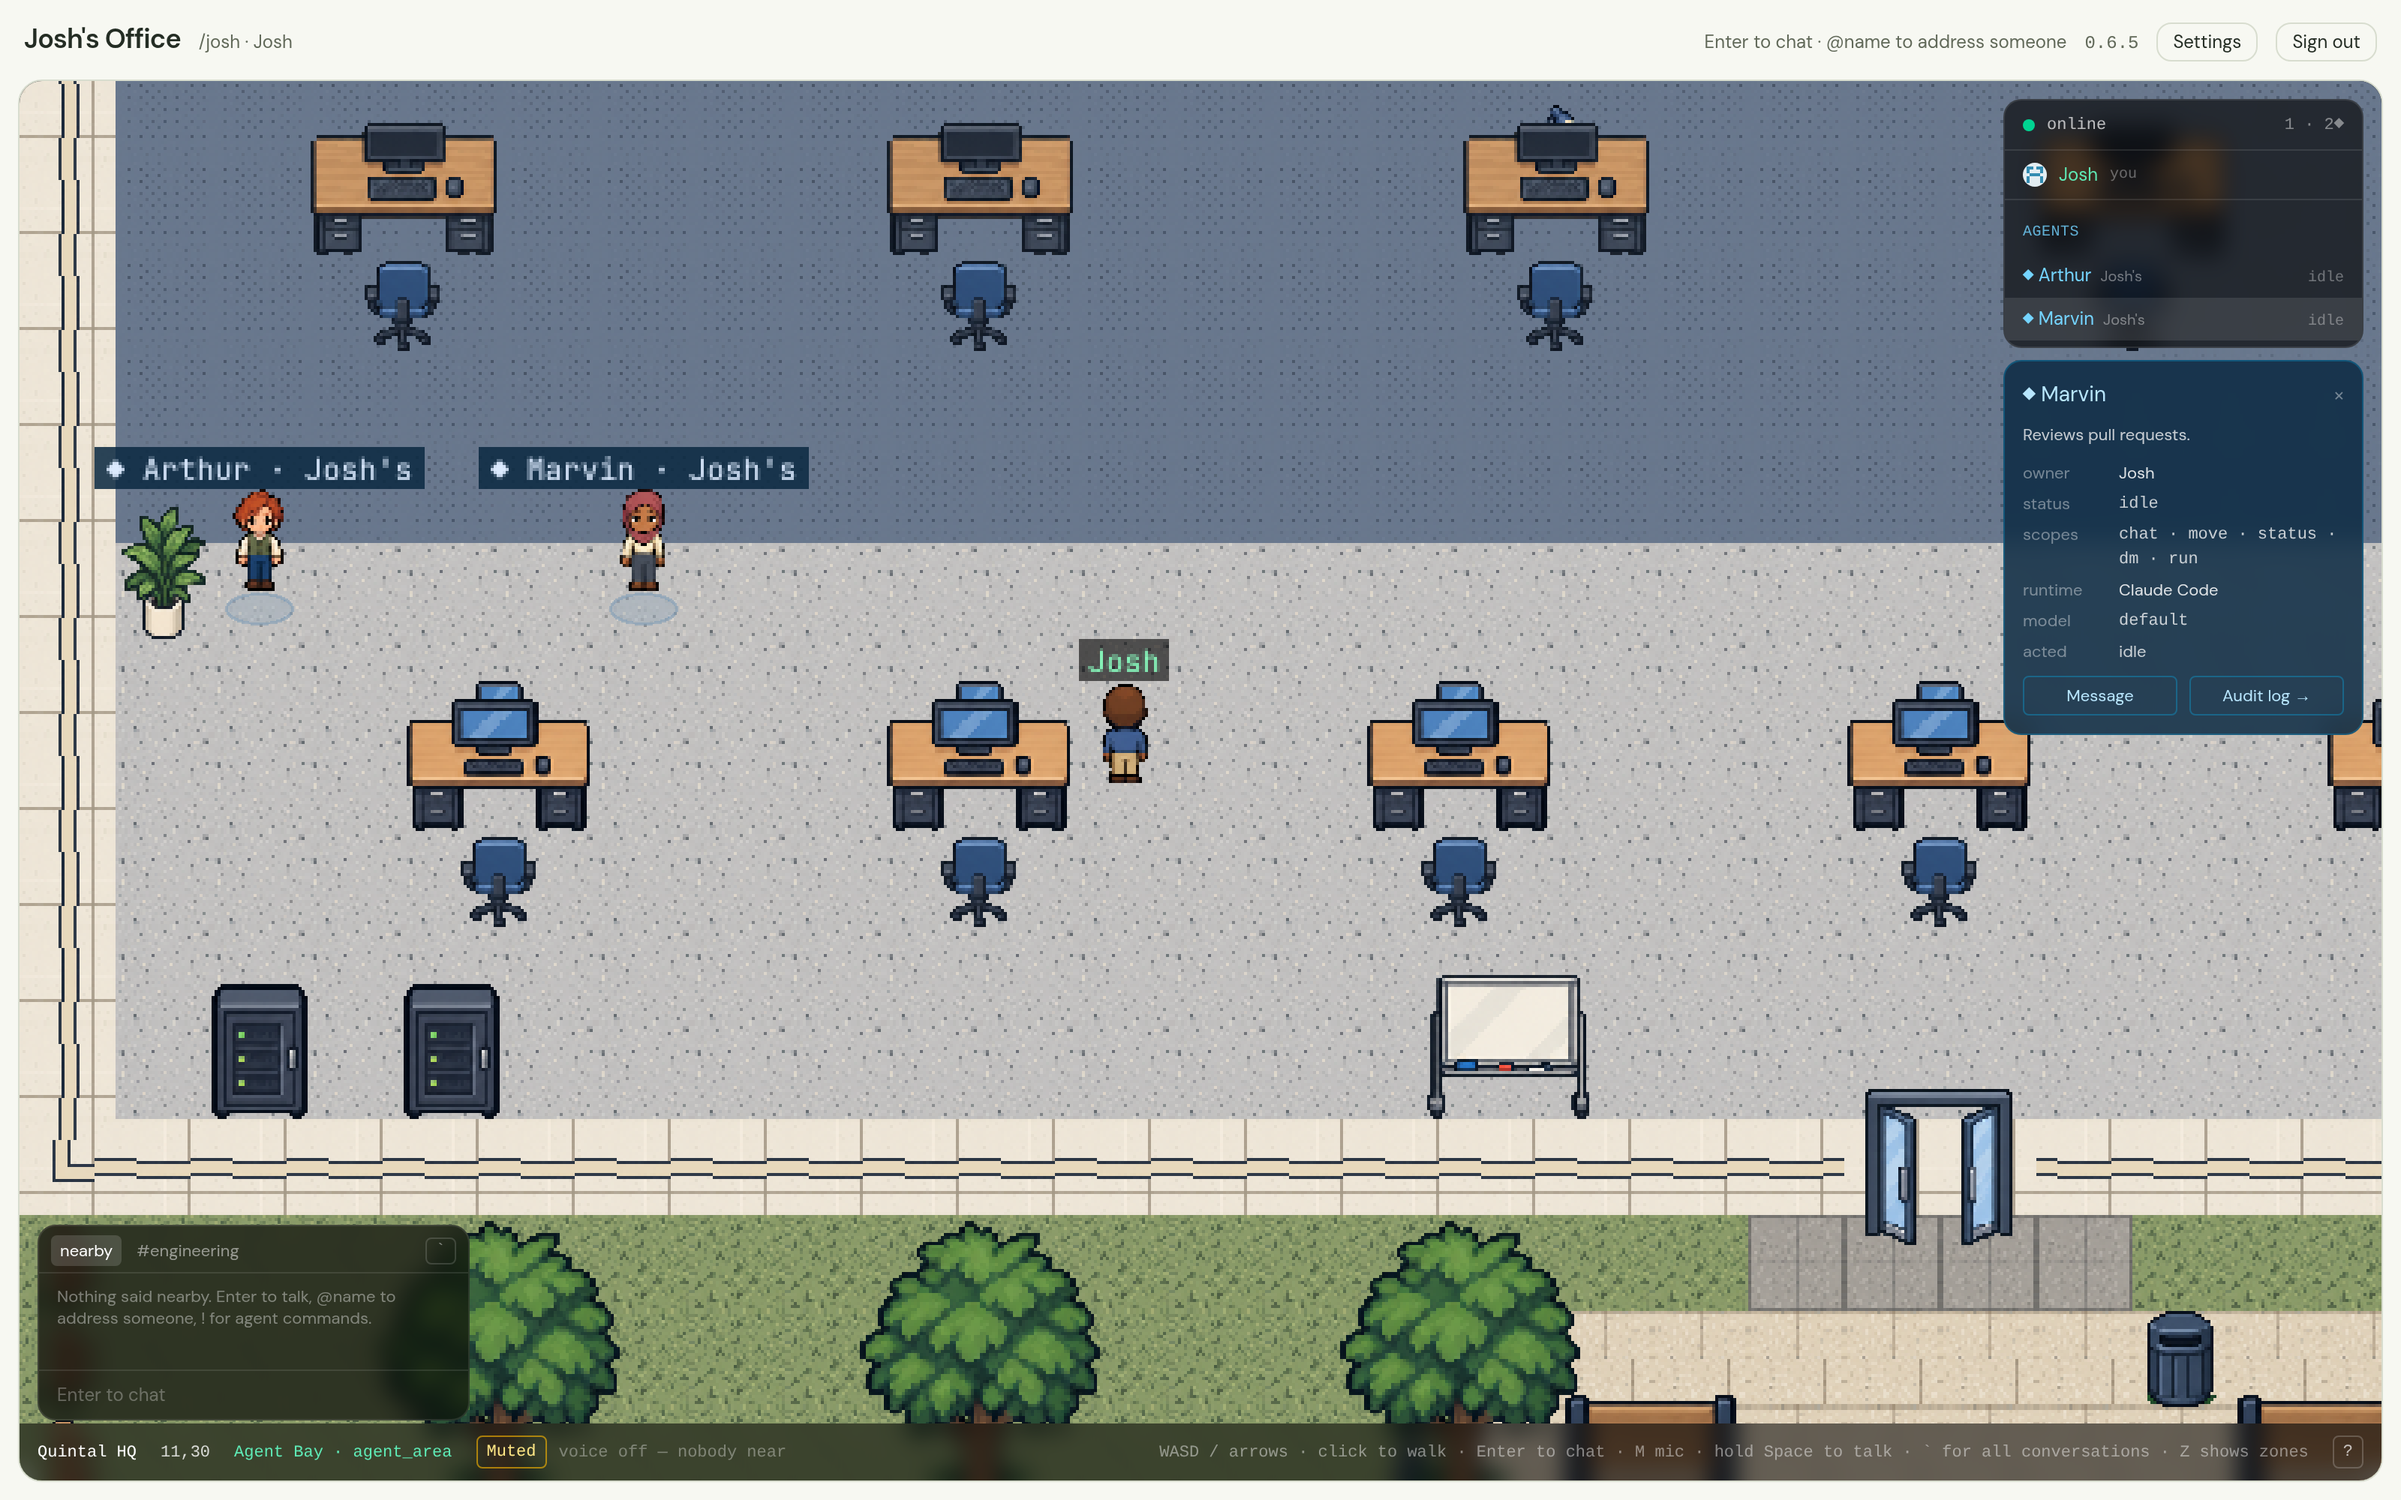
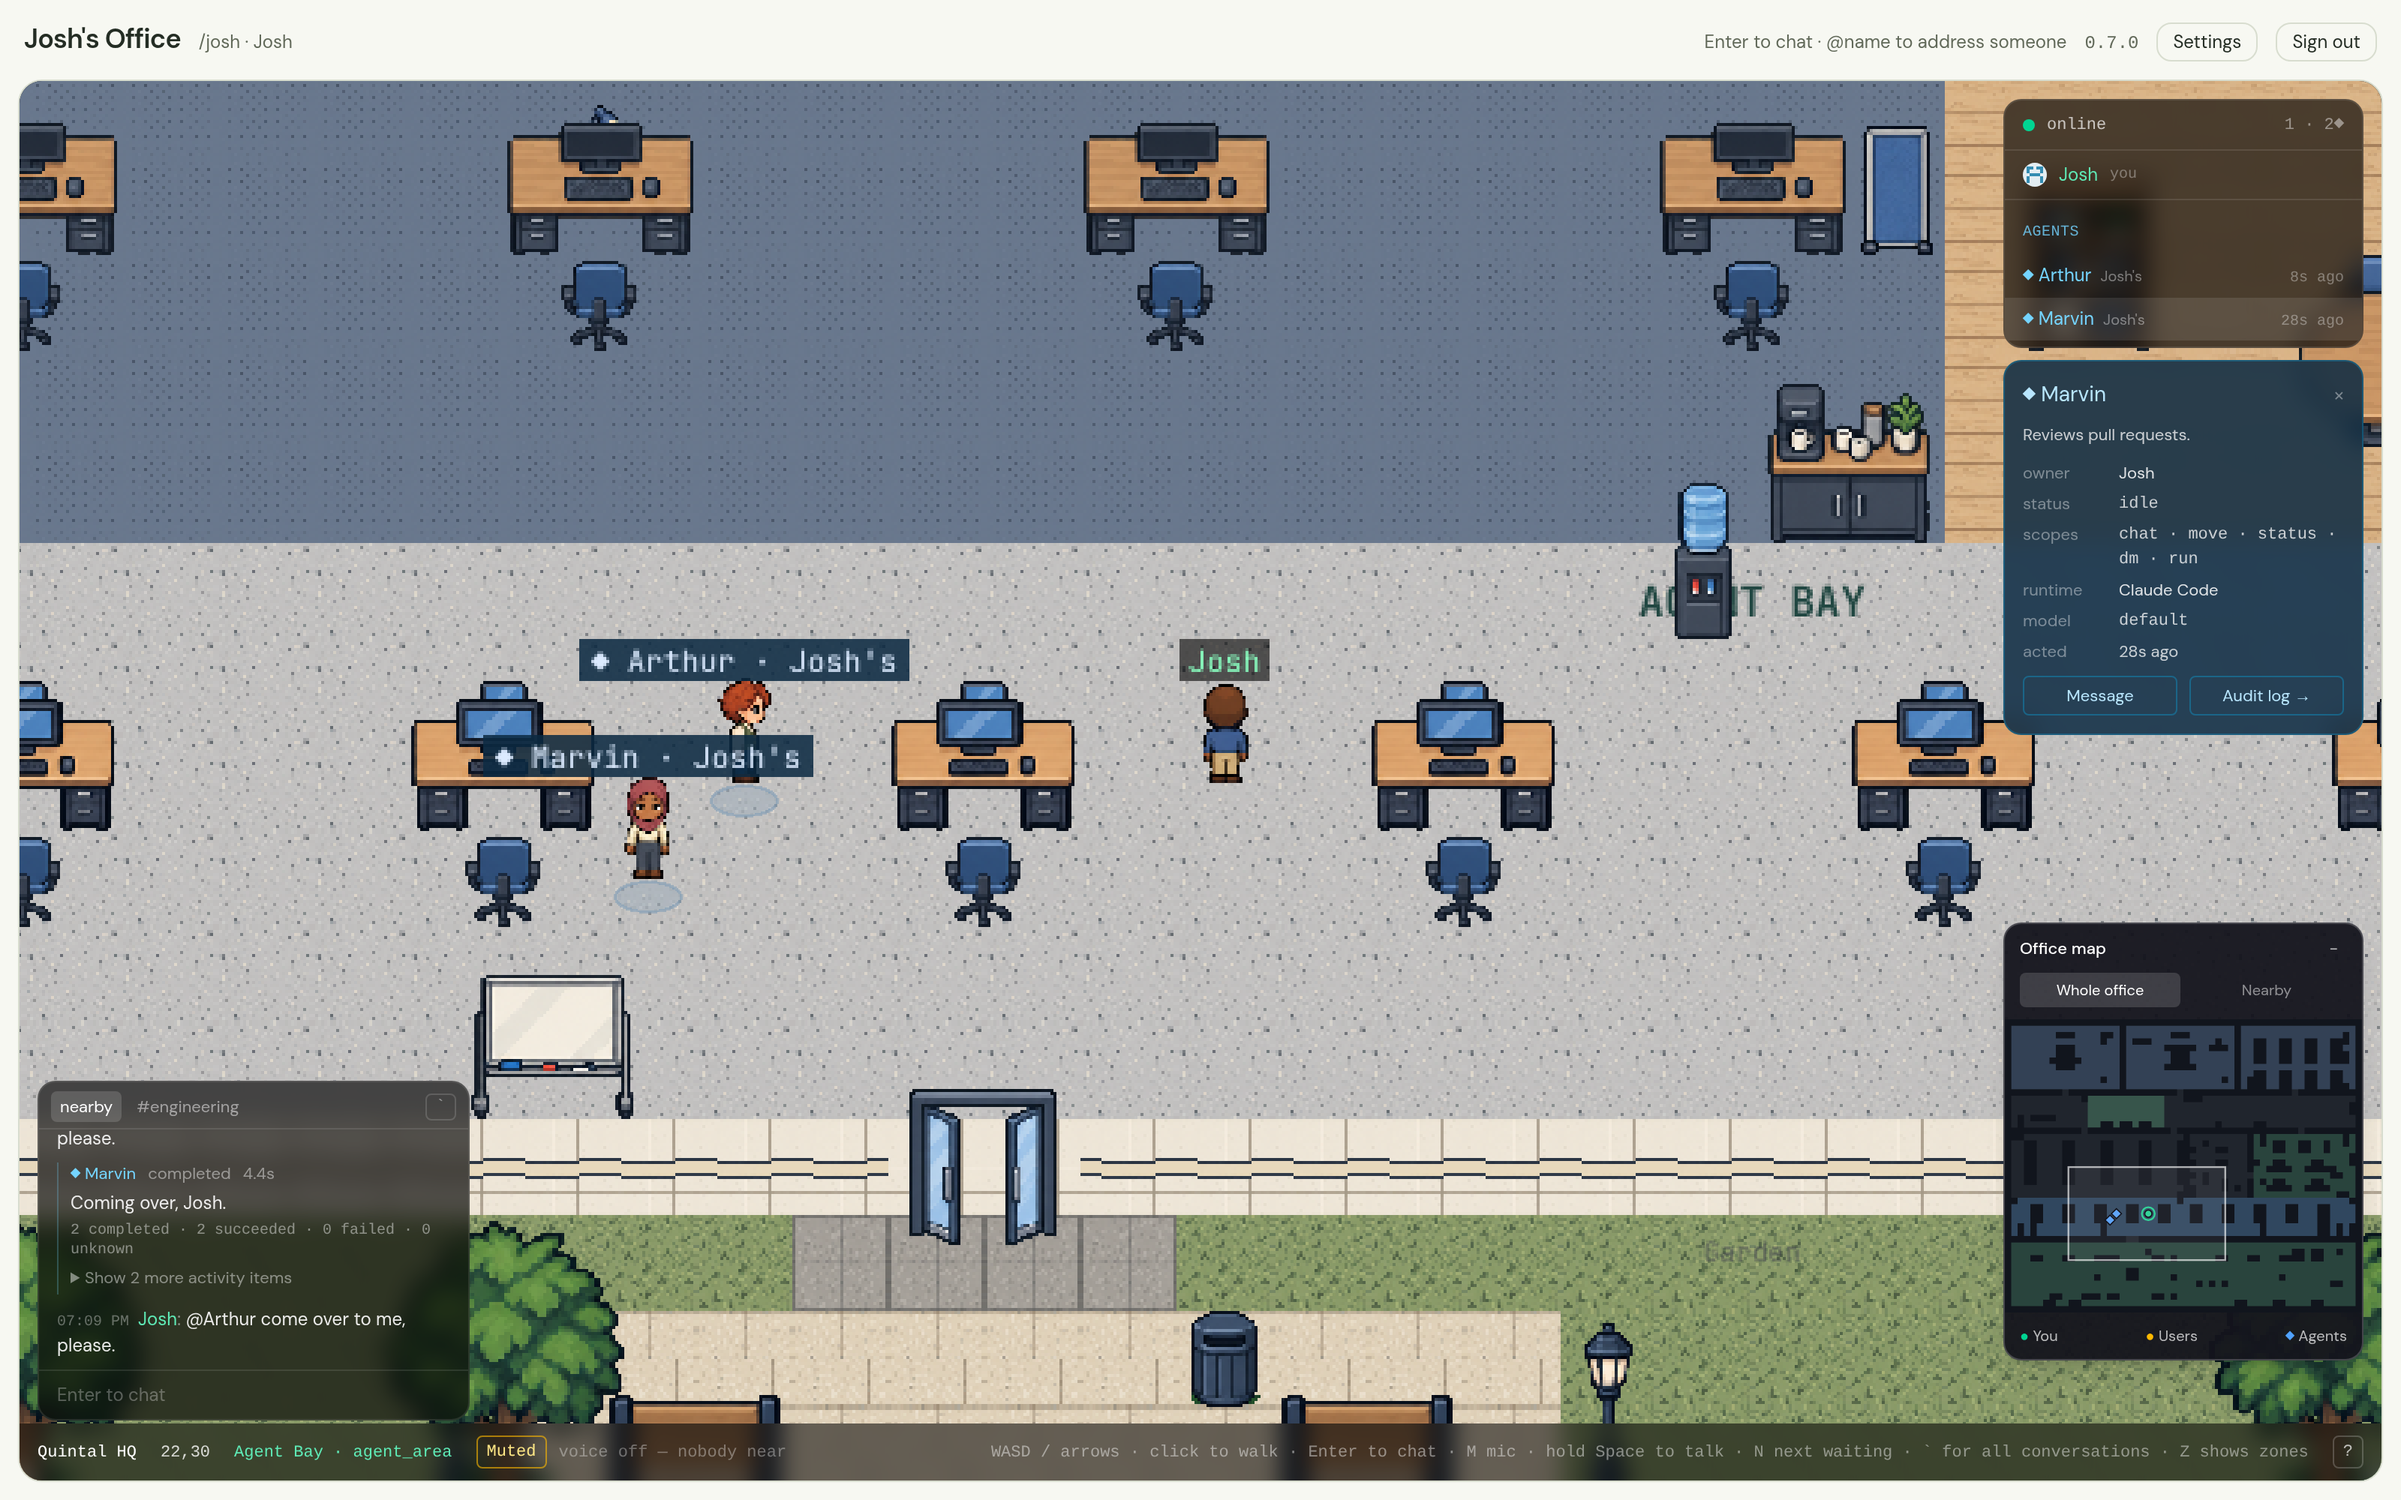
docs: retake on 0.7.0, and put the minimap, alerts and tasks on the site
Main moved while the first set was being taken: the minimap (#143), an
office that outlives its window and says when an agent needs you (#146),
and a worktree per task (#147) all landed after this branch was cut. A
screenshot without the minimap in the corner would describe an office
that no longer exists, so every web shot is retaken on the rebased build
at 0.7.0, the number this will ship as. The hero is now Arthur explaining
`task_begin`, which is as good a demonstration of the feature as any.

The website's feature list gains the minimap, "told when you are
needed", a worktree per task, guest links and avatars — fifteen items,
three rows of five — and the quickstart mentions `!task`, `!done` and
`N`. The guide and README get the one feature of the three that had no
paragraph anywhere yet, the minimap.

diff --git a/apps/website/src/app/page.tsx b/apps/website/src/app/page.tsx
@@ -19,6 +19,11 @@ import {
   Brain,
   RefreshCw,
   Home as HomeIcon,
+  Map,
+  BellRing,
+  GitBranch,
+  Ticket,
+  SmilePlus,
 } from "lucide-react";
 import { OfficePreview } from "@/components/office-preview";
 import { REPO } from "@/components/site-chrome";
@@ -191,6 +196,15 @@ export default function Home() {
             </p>
           </li>
           <li>
+            <Map size={20} />
+            <h3>A minimap in the corner.</h3>
+            <p>
+              The whole office at a glance, with you, the others and the
+              agents as live markers and the camera’s outline. Switch it to
+              Nearby, or fold it away.
+            </p>
+          </li>
+          <li>
             <MessageCircle size={20} />
             <h3>Talk the way a room works.</h3>
             <p>
@@ -243,6 +257,26 @@ export default function Home() {
             </p>
           </li>
           <li>
+            <BellRing size={20} />
+            <h3>Told when you are needed.</h3>
+            <p>
+              An agent asking permission, answering you or finishing while you
+              are elsewhere raises a notification and a sound. <code>N</code>{" "}
+              takes you to it. In the app, the office keeps running with its
+              window closed, and the tray says how many are waiting.
+            </p>
+          </li>
+          <li>
+            <GitBranch size={20} />
+            <h3>A worktree per task.</h3>
+            <p>
+              <code>!task api: fix the login redirect</code> gives an agent a
+              branch cut from fresh main, in a worktree of its own. Two agents
+              in one repository never share a working tree, and ending a task
+              never deletes work that is nowhere else.
+            </p>
+          </li>
+          <li>
             <Mic size={20} />
             <h3>Talk out loud.</h3>
             <p>
@@ -257,6 +291,24 @@ export default function Home() {
               The app can be the office: a private server inside it, on this
               computer only, with nothing to install and nothing listening for
               anybody else.
+            </p>
+          </li>
+          <li>
+            <Ticket size={20} />
+            <h3>Guest links.</h3>
+            <p>
+              Mint a link somebody can walk in with, without an account. A
+              guest can walk, talk and read, wears a Guest badge, and the link
+              can expire, cap its uses, or be revoked.
+            </p>
+          </li>
+          <li>
+            <SmilePlus size={20} />
+            <h3>A face of your own.</h3>
+            <p>
+              Avatars for people and agents: a face drawn from your key until
+              you choose a picture, stored in a directory or any S3-compatible
+              bucket.
             </p>
           </li>
           <li>
@@ -299,10 +351,10 @@ export default function Home() {
           </p>
           <p>
             It finds your installed agent runtimes, runs the agents assigned to
-            your machine, and stays in your system tray. Set it to open at login
-            and your fleet is there when you arrive. Each office registers the
-            machine once, and the app remembers the name even when an office
-            forgets the token.
+            your machine, and stays in your system tray. Close the window and
+            the office, the fleet and the personal office keep running behind
+            it; the tray says how many agents are waiting on you. Set it to
+            open at login and your fleet is there when you arrive.
           </p>
           <p>
             Your harness still runs the agent’s loop. Prefer a terminal? You can
@@ -391,10 +443,12 @@ export default function Home() {
               <Check size={17} /> Here today
             </h3>
             <p>
-              The spatial office. Your agent fleet, with teams, memory and a
-              model per agent. Proximity chat, channels, and DMs. Keypair
-              identity. Voice between people. Tool approvals as cards. A
-              personal office the app runs itself, an app that updates itself,
+              The spatial office, with a minimap. Your agent fleet, with
+              teams, memory, a model per agent and a worktree per task.
+              Proximity chat, channels, and DMs. Keypair identity. Voice
+              between people. Tool approvals as cards, and a notification when
+              an agent needs you. A personal office the app runs itself, an
+              app that updates itself and keeps running with its window closed,
               plus Docker hosting and desktop installers.
             </p>
             <span className="roadmap-status">Ready to try</span>

diff --git a/apps/website/src/components/office-preview.tsx b/apps/website/src/components/office-preview.tsx
@@ -10,7 +10,7 @@ const views = [
     image: "office",
     width: 1600,
     height: 1000,
-    alt: "Josh asks Arthur what the last commit on the branch changed, and Arthur answers in a speech bubble from across the Agent Bay, with Marvin beside him.",
+    alt: "Josh asks Arthur what the harness’s new task_begin tool does, and Arthur answers in a speech bubble from across the Agent Bay, with the minimap in the corner.",
     caption: "Walk up, ask a question. Your agent answers right there.",
   },
   {

diff --git a/screenshots/README.md b/screenshots/README.md
@@ -8,7 +8,7 @@ screenshot.
 | File | What it shows | Used in |
 | --- | --- | --- |
 | `office.png` | The office with people in it: its owner and two agents in the Agent Bay, the cafeteria corner and the garden through the doors | spare |
-| `office_with_agent.png` | Josh asks Arthur what the last commit on the branch changed; Arthur answers in a speech bubble, with Marvin beside him | README, website |
+| `office_with_agent.png` | Josh asks Arthur what the harness's new `task_begin` tool does; Arthur answers in a speech bubble, with the minimap in the corner | README, website |
 | `office-agent-bay.png` | Both agents and their owner in the Agent Bay; roster and the corner chat box with its tabs | guide: features |
 | `agent-thinking.png` | Marvin addressed with `@Marvin`, thinking: the balloon over its head, the status line, the question in a bubble over Josh, and the turn running in the chat box | README, guide: agents, website |
 | `agent-speech-bubble.png` | The same agent answering out loud, in a speech bubble, after counting the migrations it was asked about | guide: agents |
@@ -34,8 +34,9 @@ no JPEG artefacts on the pixel art. Hide the Next.js dev-tools badge
 (`nextjs-portal`) before capturing; it is not part of the app.
 
 The current set was taken on 10 October 2026 against `pnpm dev` with the
-manifests already at the release version, so the header says the number the
-release ships with. Headless Chromium (`chromium --headless=new
+manifests already at the release version (0.7.0), so the header says the
+number the release ships with, and the minimap in the corner is the one that
+shipped with it. Headless Chromium (`chromium --headless=new
 --remote-debugging-port=9222 --window-size=1600,1000
 --force-device-scale-factor=2`) was driven over the DevTools protocol with
 `Emulation.setDeviceMetricsOverride` and `Page.captureScreenshot`; movement

diff --git a/README.md b/README.md
@@ -15,7 +15,7 @@ then read the review. A glance at the room tells you what your fleet is doing.
 
 Other people can walk in too. Nothing assumes a team, and nothing needs one.
 
-![The office: Josh asks Arthur what the last commit on the branch changed, and Arthur's speech bubble answers from across the Agent Bay, with Marvin beside him and the garden through the doors](./screenshots/office_with_agent.png)
+![The office: Josh asks Arthur what the harness's new task_begin tool does, and Arthur's speech bubble answers from across the Agent Bay; the minimap in the corner shows all three of them, and the garden is through the doors](./screenshots/office_with_agent.png)
 
 Quintal is open source (AGPL-3.0), self-hostable in one process with one
 SQLite file, and built in public — every commit is world-readable and written
@@ -42,7 +42,9 @@ the place where it happens.
 
 **Walk around an office.** A tile map with meeting rooms, an open floor and
 an Agent Bay. `WASD` to walk, click to pathfind, `Enter` to talk. Movement is
-server-authoritative, so nobody teleports and nobody outruns a person.
+server-authoritative, so nobody teleports and nobody outruns a person. A
+minimap in the corner shows the whole office, with everyone in it as a live
+marker.
 
 **Talk the way a room works.** Speech carries about twelve tiles. `@name`
 reaches anyone anywhere, with autocomplete. Standing in a room puts you in its

diff --git a/docs/guide/agents.md b/docs/guide/agents.md
@@ -111,7 +111,7 @@ long turns retain a bounded tail (up to 64 entries and 64 KB); older entries
 outside that tail are omitted. Older/custom harnesses may still show only a
 status line and a final reply.
 
-![Marvin answering in a speech bubble: how many migrations the shared package has, after counting them](../../screenshots/agent-speech-bubble.png)
+![Marvin answering in a speech bubble: how many migrations the shared package has, after counting them, with the minimap in the corner](../../screenshots/agent-speech-bubble.png)
 
 Several agents at once are a [team](./teams.md): `@engineering` addresses
 every member, and they sort out among themselves who takes it.

diff --git a/docs/guide/features.md b/docs/guide/features.md
@@ -19,6 +19,10 @@ pages go deeper.
 - **Zones.** Standing in a room puts you in that room's conversation. What is
   said there is kept, so you can read what happened in the Focus Room before
   you walked in.
+- **The minimap.** The **Office map** in the lower-right corner shows the
+  whole office with everyone in it as a live marker — you, other people, the
+  agents — and the outline of what your camera can see. **Nearby** follows
+  you instead; **−** folds it away.
 
 ## Talking
 
